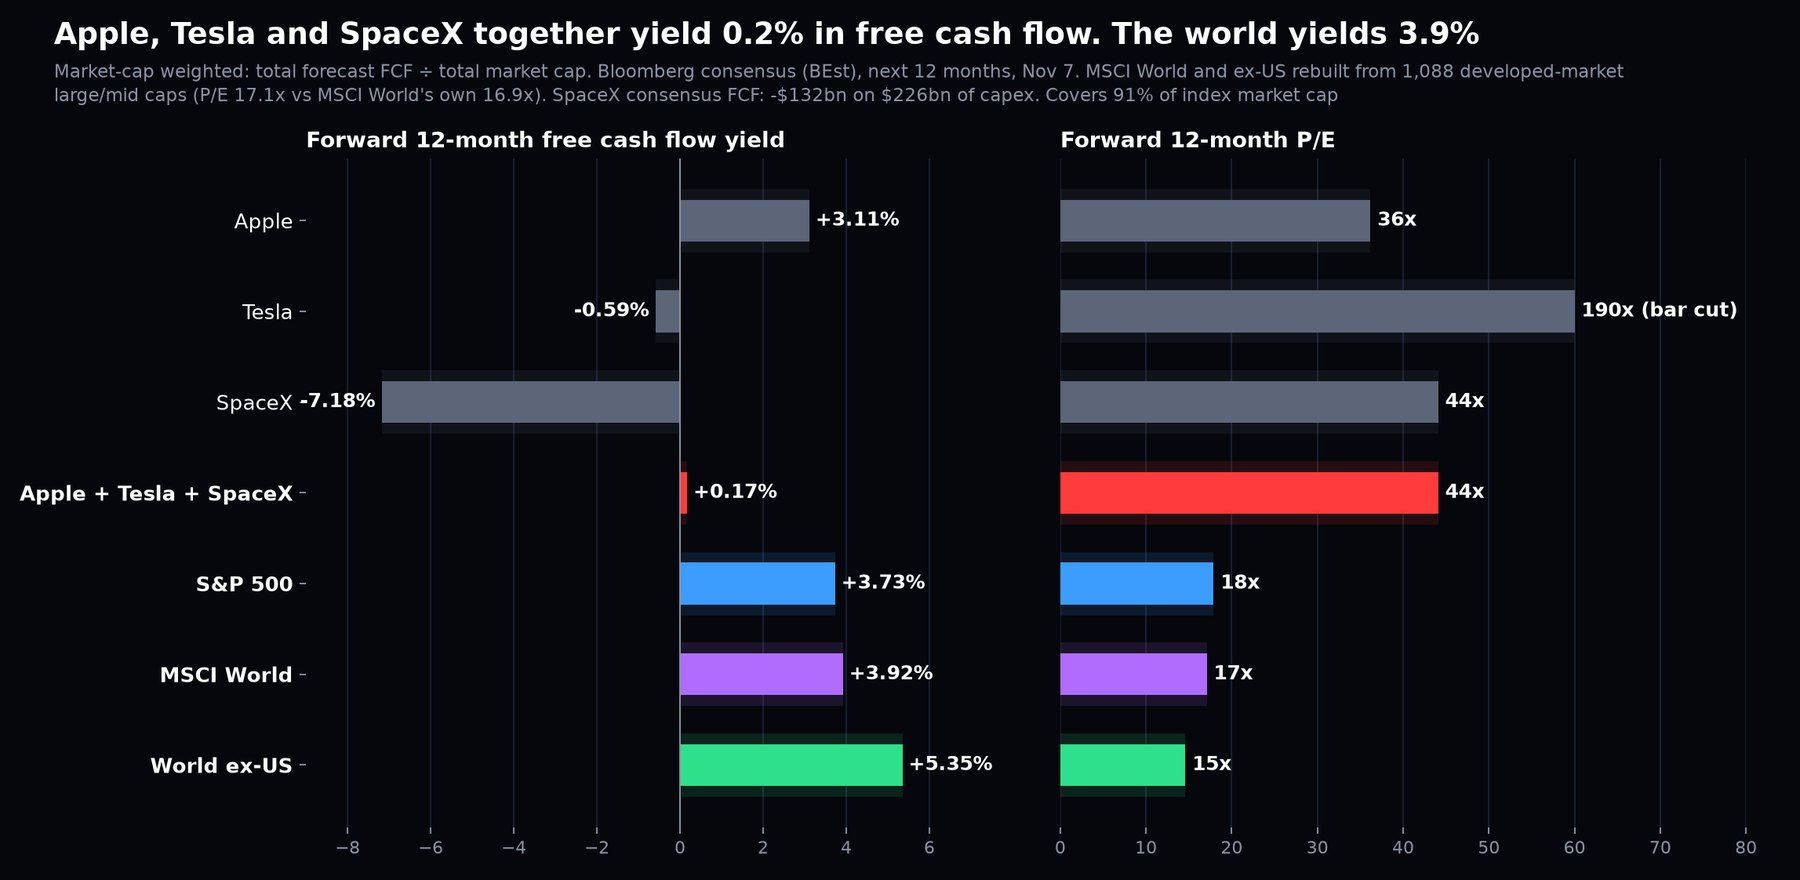
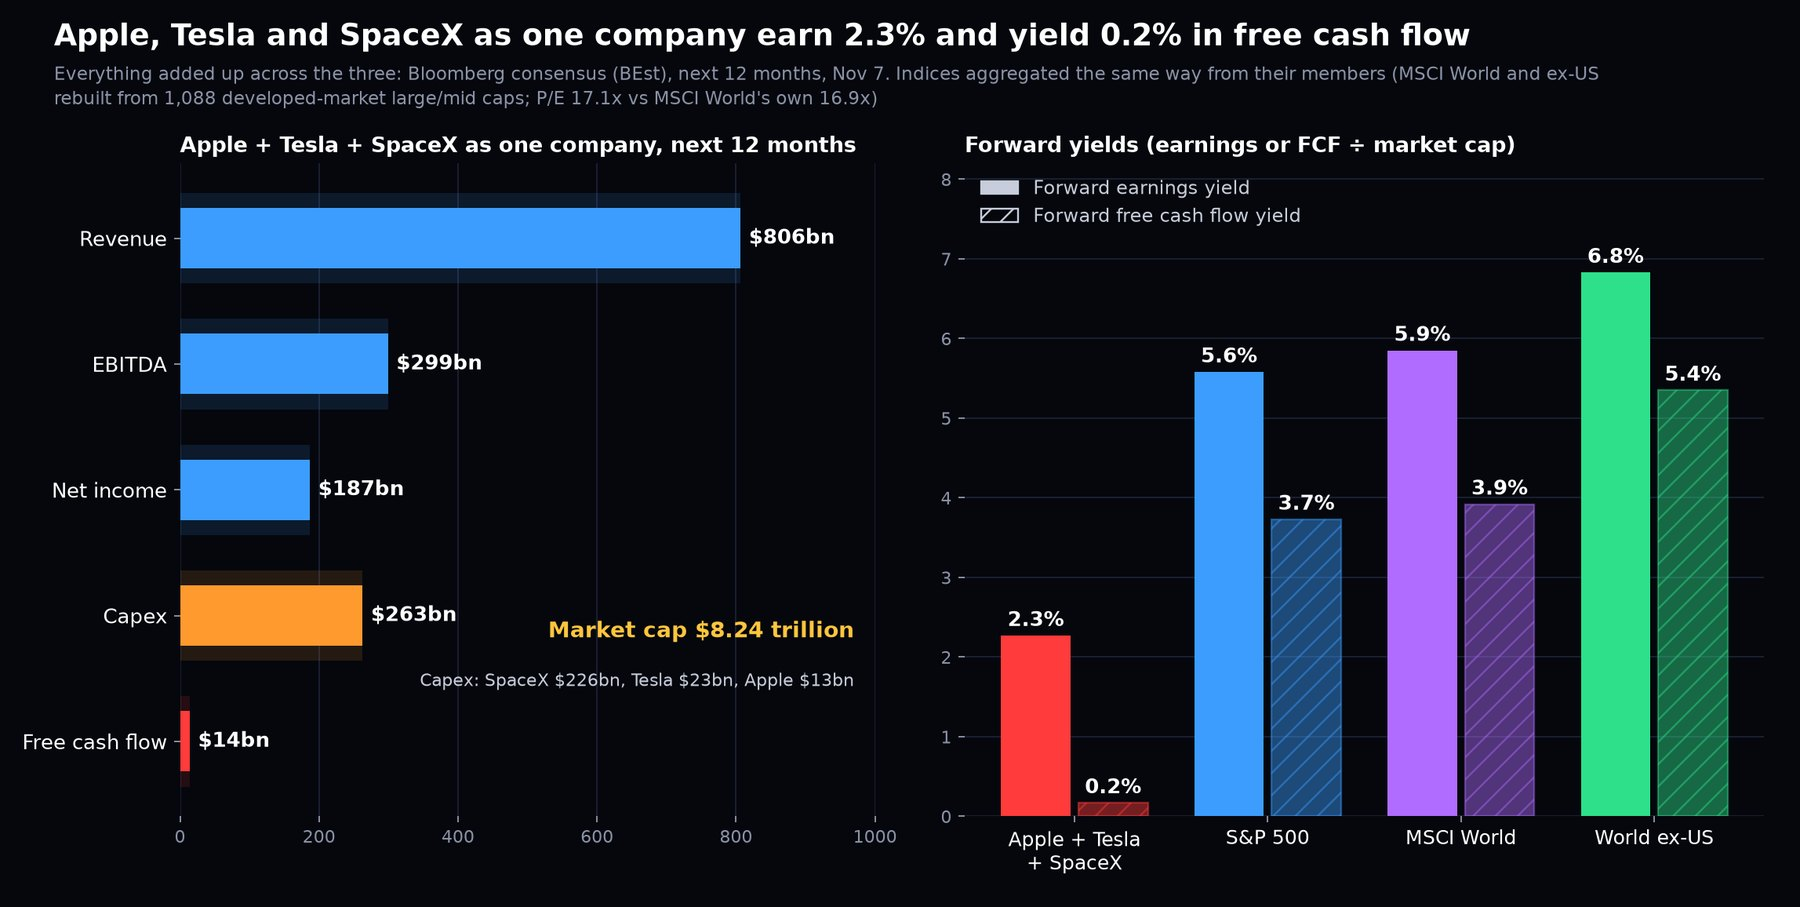
Draft commentary: Trade Structuring valuation as one combined company, forward earnings yield instead of P/E

diff --git a/static/commentary/is-trump-going-to-re-escalate-iran/index.html b/static/commentary/is-trump-going-to-re-escalate-iran/index.html
@@ -200,8 +200,8 @@
 <p>Young men under 30 voted 66% Democrat, whereas 56% of young men voted for Trump in 2024. Fuentes&#x27;s fundamental argument is &quot;vote Blue down the line&quot; to punish Trump for betrayal, so that chaos, panic, mass migration and business destruction can ensue - allowing the rise of a far right leader to &quot;be the voice of reason&quot;.</p>
 <p><a href="https://x.com/FuentesUpdates/status/2118231048308044216" target="_blank" rel="noopener">Fuentes on JD Vance</a></p>
 <h2>Trade Structuring</h2>
-<p>The other side of long oil is short Apple, Tesla and SpaceX - $8.2 trillion of market cap between them. Weighted by market cap, the three trade at 44x forward earnings and yield 0.2% in forward free cash flow: Apple 3.1%, Tesla -0.6% and SpaceX -7.2%, because consensus has SpaceX spending $226bn on capex over the next 12 months. The S&amp;P 500 yields 3.7%, MSCI World 3.9% and the developed world outside the US 5.4%.</p>
-<figure class="exhibit"><img src="img/trade-valuation.jpg" alt="Forward free cash flow yield and P/E: Apple, Tesla, SpaceX vs S&amp;P 500, MSCI World and world ex-US" loading="lazy"><figcaption><span class="label">Exhibit 22</span>Market-cap weighted forward free cash flow yield and P/E. Bloomberg consensus, next 12 months</figcaption></figure>
+<p>The other side of long oil is short Apple, Tesla and SpaceX. Treat them as one company and add everything up: $8.2 trillion of market cap on $806bn of forward revenue, $187bn of net income and just $14bn of free cash flow, because the three will spend $263bn on capex over the next 12 months - $226bn of it at SpaceX. That is a 2.3% forward earnings yield and a 0.2% free cash flow yield. The S&amp;P 500 earns 5.6% (3.7% in free cash flow), MSCI World 5.9% (3.9%) and the developed world outside the US 6.8% (5.4%).</p>
+<figure class="exhibit"><img src="img/trade-valuation.jpg" alt="Forward free cash flow yield and P/E: Apple, Tesla, SpaceX vs S&amp;P 500, MSCI World and world ex-US" loading="lazy"><figcaption><span class="label">Exhibit 22</span>Apple, Tesla and SpaceX added up as one company vs the S&amp;P 500, MSCI World and world ex-US: forward earnings and free cash flow yields. Bloomberg consensus, next 12 months</figcaption></figure>
 <p>Elon Musk and Apple are part of the American exceptionalism trade that has led to massive inflows into the US relative to the rest of the world. Since 2020, $1.14 trillion has gone into the four biggest US index ETFs (VOO, VTI, IVV and SPY) vs $331bn into the six biggest international ones - $233bn vs $83bn this year alone. VOO has taken in $135bn this year and VTI $56bn. At index weights, about $14bn of this year&#x27;s S&amp;P 500 ETF inflows went straight into Apple and $3.5bn into Tesla. SpaceX listed in June and is already in the Nasdaq-100.</p>
 <figure class="exhibit"><img src="img/trade-flows.jpg" alt="Cumulative net inflows into US vs international index ETFs since 2020" loading="lazy"><figcaption><span class="label">Exhibit 23</span>Cumulative net inflows since January 2020: US index ETFs $1.14 trillion, international $331bn</figcaption></figure>
 <p>People are full-porting US passive in a way the academic literature doesn&#x27;t support. The case for passive investing comes from CAPM, where every investor holds the market portfolio - all assets, globally - not one country&#x27;s index. If you had full-ported the largest equity market of its day in the past, you would have faced total loss of capital or decades underwater:</p>
